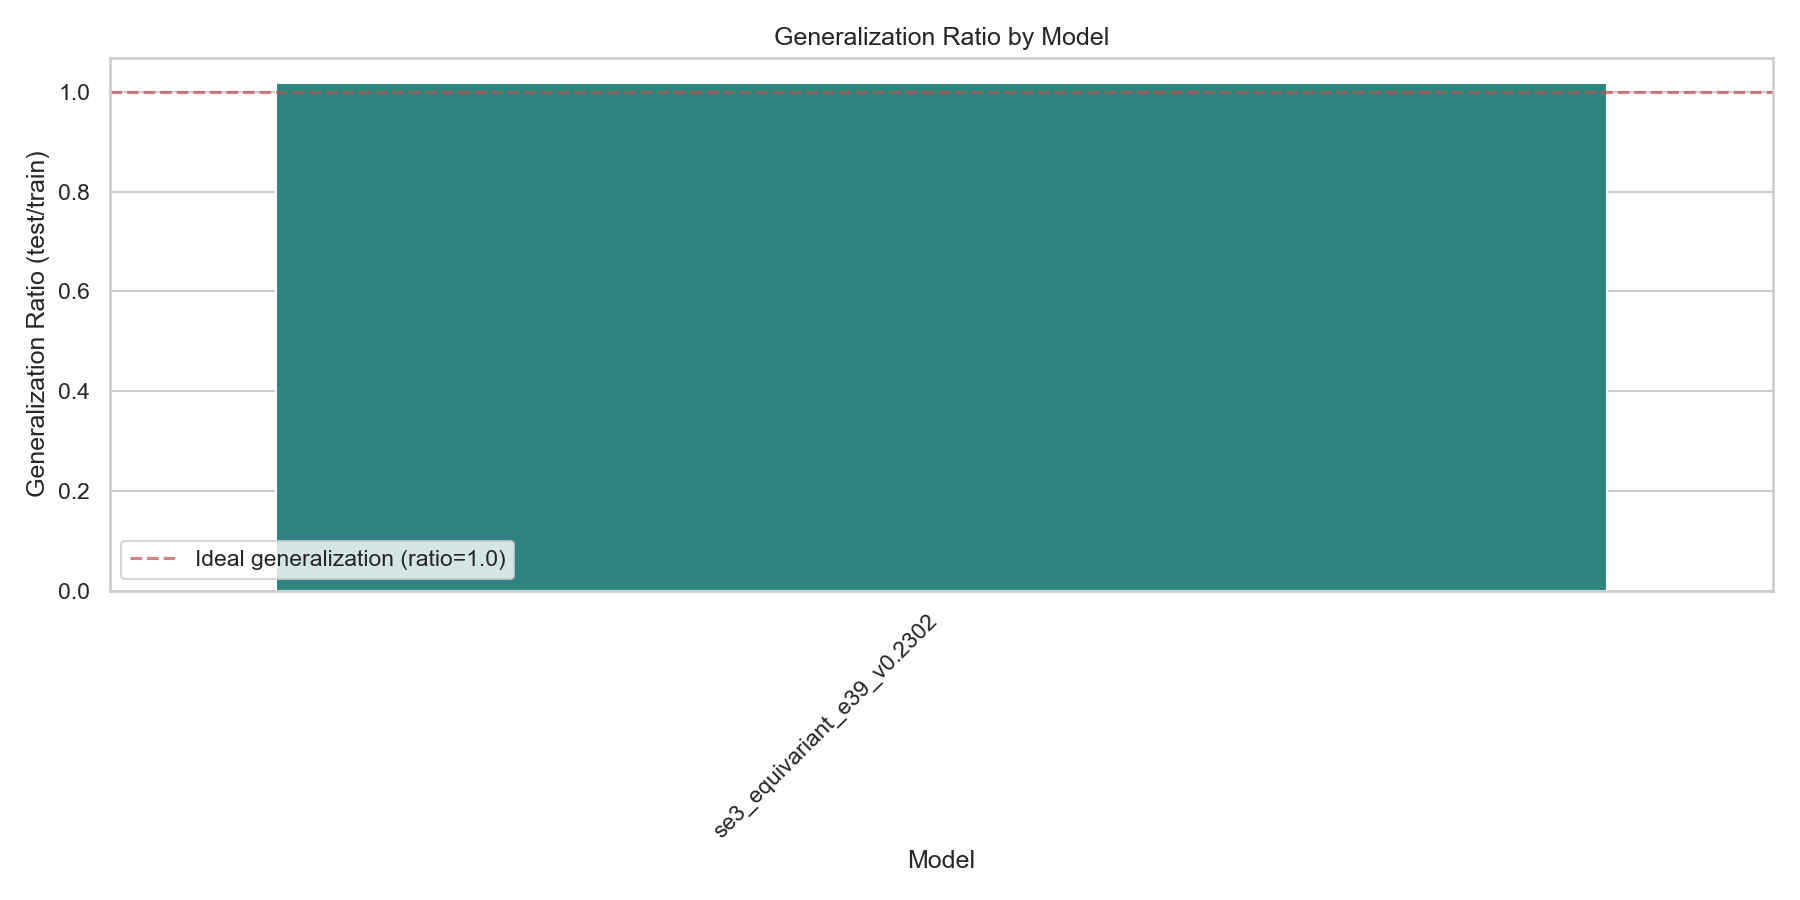
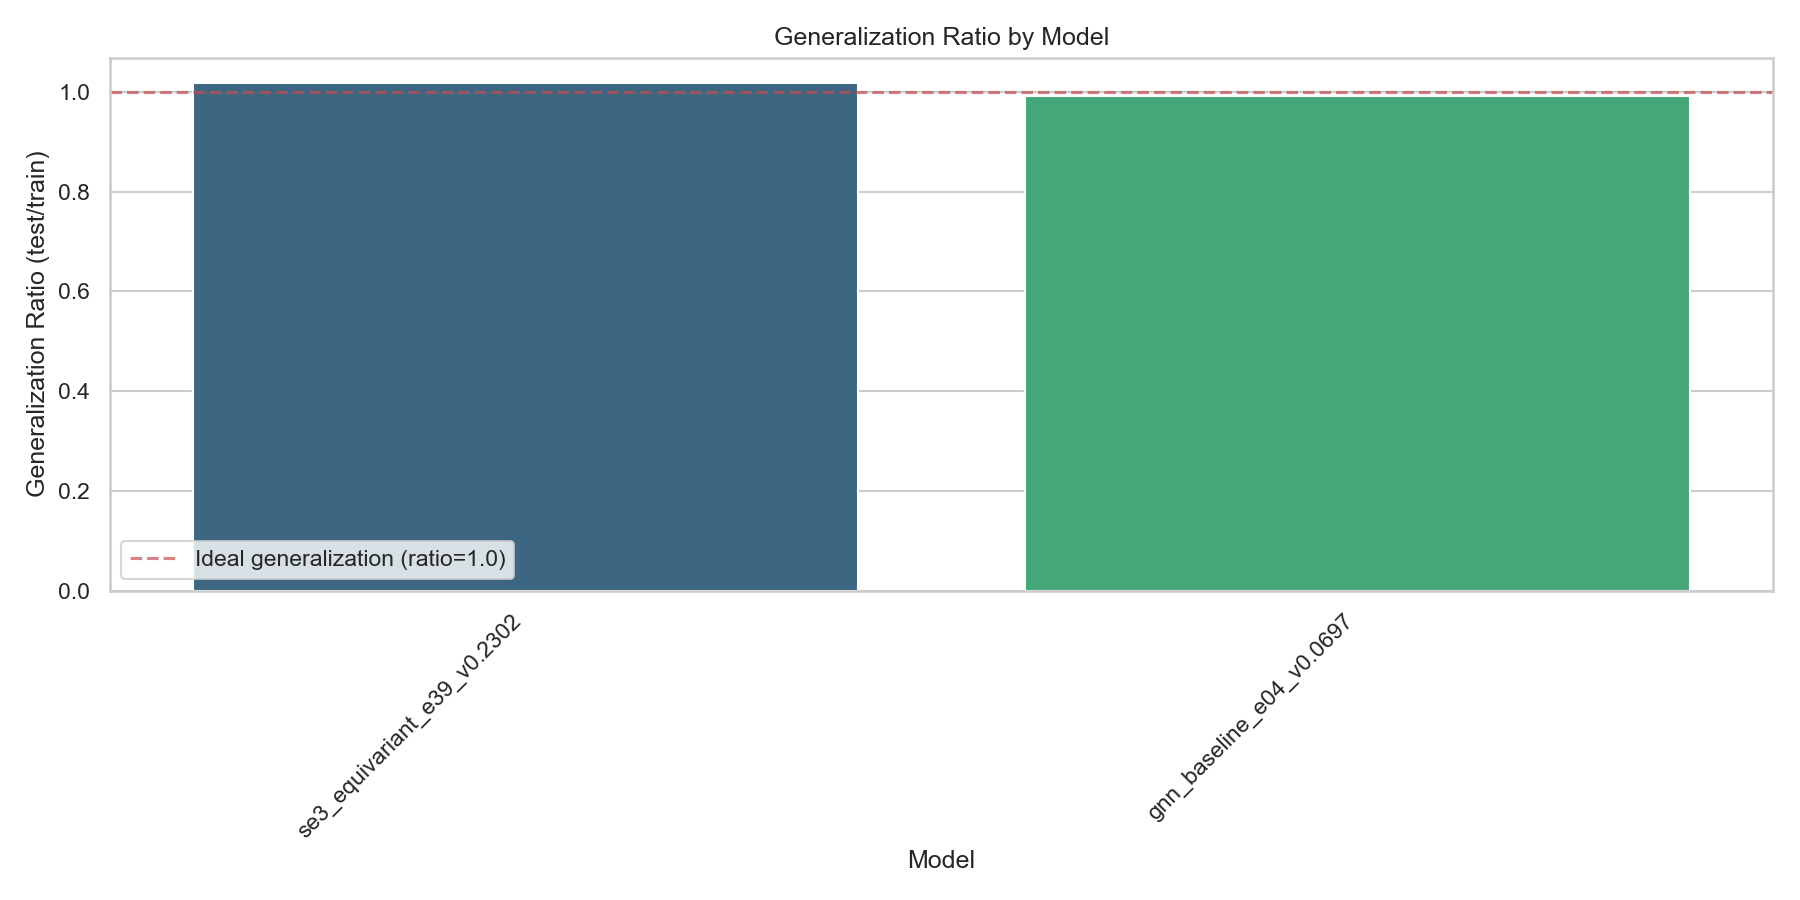
work in progress

diff --git a/scripts/evaluate_all_models.py b/scripts/evaluate_all_models.py
@@ -133,12 +133,12 @@ def main():
         
         # Determine model module path based on model name - FIXED to use the correct classes
         if model_name == 'gnn_baseline':
-            model_module = 'src.model.lightning_module'  # Changed to use Lightning module wrapper
+            model_module = 'src.model.lightning_module.GNNLightningModule'  # Include the class name
         elif model_name == 'se3_equivariant':
-            model_module = 'src.model.SE3_equivariant'  # SE3 model already has Lightning integrated
+            model_module = 'src.model.SE3_equivariant.SE3EquivariantModel'  # Include the class name
         else:
             logger.warning(f"Unknown model type {model_name}, assuming default module")
-            model_module = 'src.model.lightning_module'
+            model_module = 'src.model.lightning_module.GNNLightningModule'
         
         # Fix path for Hydra - convert backslashes to forward slashes
         checkpoint_path = best_checkpoint.replace('\\', '/')
